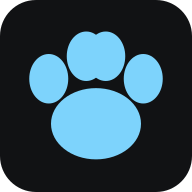
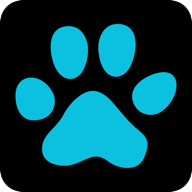
feat(ui): add official Mungchilog branding assets

diff --git a/apps/web/src/components/system/AuthShell.tsx b/apps/web/src/components/system/AuthShell.tsx
@@ -23,7 +23,7 @@ export function AuthShell({ title, description, children }: AuthShellProps) {
     <main className="auth-shell">
       <section className="auth-shell-brand" aria-label="뭉치로그 소개">
         <div className="auth-shell-brand-mark">
-          <img src="/pwa-192.png" width="64" height="64" alt="" />
+          <img src="/branding/mungchilog-paw.png" width="64" height="64" alt="" />
           <span>뭉치로그</span>
         </div>
         <div className="auth-shell-brand-copy">
@@ -37,7 +37,7 @@ export function AuthShell({ title, description, children }: AuthShellProps) {
         <ThemeToggleButton className="auth-theme-toggle" />
         <div className="auth-shell-panel-inner">
           <div className="auth-shell-mobile-brand" aria-label="뭉치로그">
-            <img src="/pwa-192.png" width="36" height="36" alt="" />
+            <img src="/branding/mungchilog-paw.png" width="36" height="36" alt="" />
             <span>뭉치로그</span>
           </div>
           <header className="auth-shell-heading">

diff --git a/apps/web/src/components/AppNav.tsx b/apps/web/src/components/AppNav.tsx
@@ -27,7 +27,8 @@ export function AppNav({ me, navigate }: { me: Me; navigate: (path: string) => v
   return (
     <nav className="app-nav">
       <a className="app-nav-brand" href="/trips" onClick={go("/trips")}>
-        🐾 뭉치로그
+        <img src="/branding/mungchilog-paw.png" width="32" height="32" alt="" />
+        <span>뭉치로그</span>
       </a>
       <div className="app-nav-spacer" />
       {me.role === "admin" && (

diff --git a/apps/web/index.html b/apps/web/index.html
@@ -2,7 +2,7 @@
 <html lang="ko">
   <head>
     <meta charset="UTF-8" />
-    <link rel="icon" type="image/svg+xml" href="/favicon.svg" />
+    <link rel="icon" type="image/png" href="/branding/mungchilog-paw-rounded.png" />
     <link rel="apple-touch-icon" href="/pwa-192.png" />
     <meta name="viewport" content="width=device-width, initial-scale=1.0" />
     <meta name="theme-color" content="#111214" />

diff --git a/apps/web/src/index.css b/apps/web/src/index.css
@@ -1867,8 +1867,18 @@ input[type="text"]::placeholder {
   border-bottom: 1px solid var(--border);
 }
 .app-nav-brand {
+  display: inline-flex;
+  align-items: center;
+  gap: 0.5rem;
   font-weight: 700;
   color: var(--text);
+}
+.app-nav-brand img {
+  display: block;
+  width: 2rem;
+  height: 2rem;
+  border-radius: 0.55rem;
+  object-fit: cover;
 }
 .app-nav-brand:hover {
   text-decoration: none;

diff --git a/README.md b/README.md
@@ -2,7 +2,7 @@
 
 # jyje/mungchilog
 
-<img width="120" src="https://raw.githubusercontent.com/jyje/mungchilog/dev/apps/web/public/pwa-512.png" alt="mungchilog" title="mungchilog"/>
+<img width="120" src="https://raw.githubusercontent.com/jyje/mungchilog/dev/apps/web/public/branding/mungchilog-paw-rounded.png" alt="mungchilog" title="mungchilog"/>
 
 **뭉치 + log**: a personal travel itinerary app with live Google Maps routing, for any destination
 
